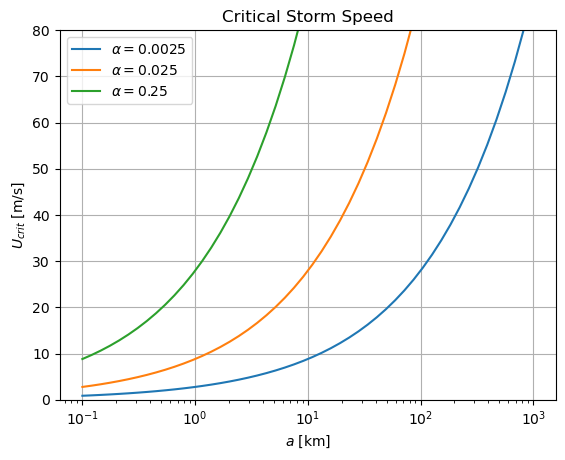
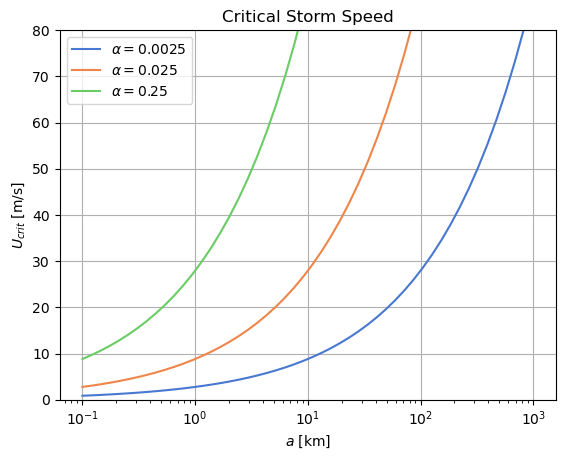
adjust colors

diff --git a/theory/theory_part1.py b/theory/theory_part1.py
@@ -7,8 +7,10 @@ import cartopy.crs as ccrs
 import cartopy.feature as cfeature
 import matplotlib.pyplot as plt
 import numpy as np
+import seaborn as sns
 
 
+sns.set_palette(sns.color_palette("muted"))
 current_dir = os.path.dirname(os.path.realpath(__file__))
 
 

diff --git a/theory/theory_part2.py b/theory/theory_part2.py
@@ -5,8 +5,9 @@ import sys
 
 import matplotlib.pyplot as plt
 import numpy as np
+import seaborn as sns
 
-
+sns.set_palette(sns.color_palette("muted"))
 current_dir = os.path.dirname(os.path.realpath(__file__))
 g = 9.81
 
